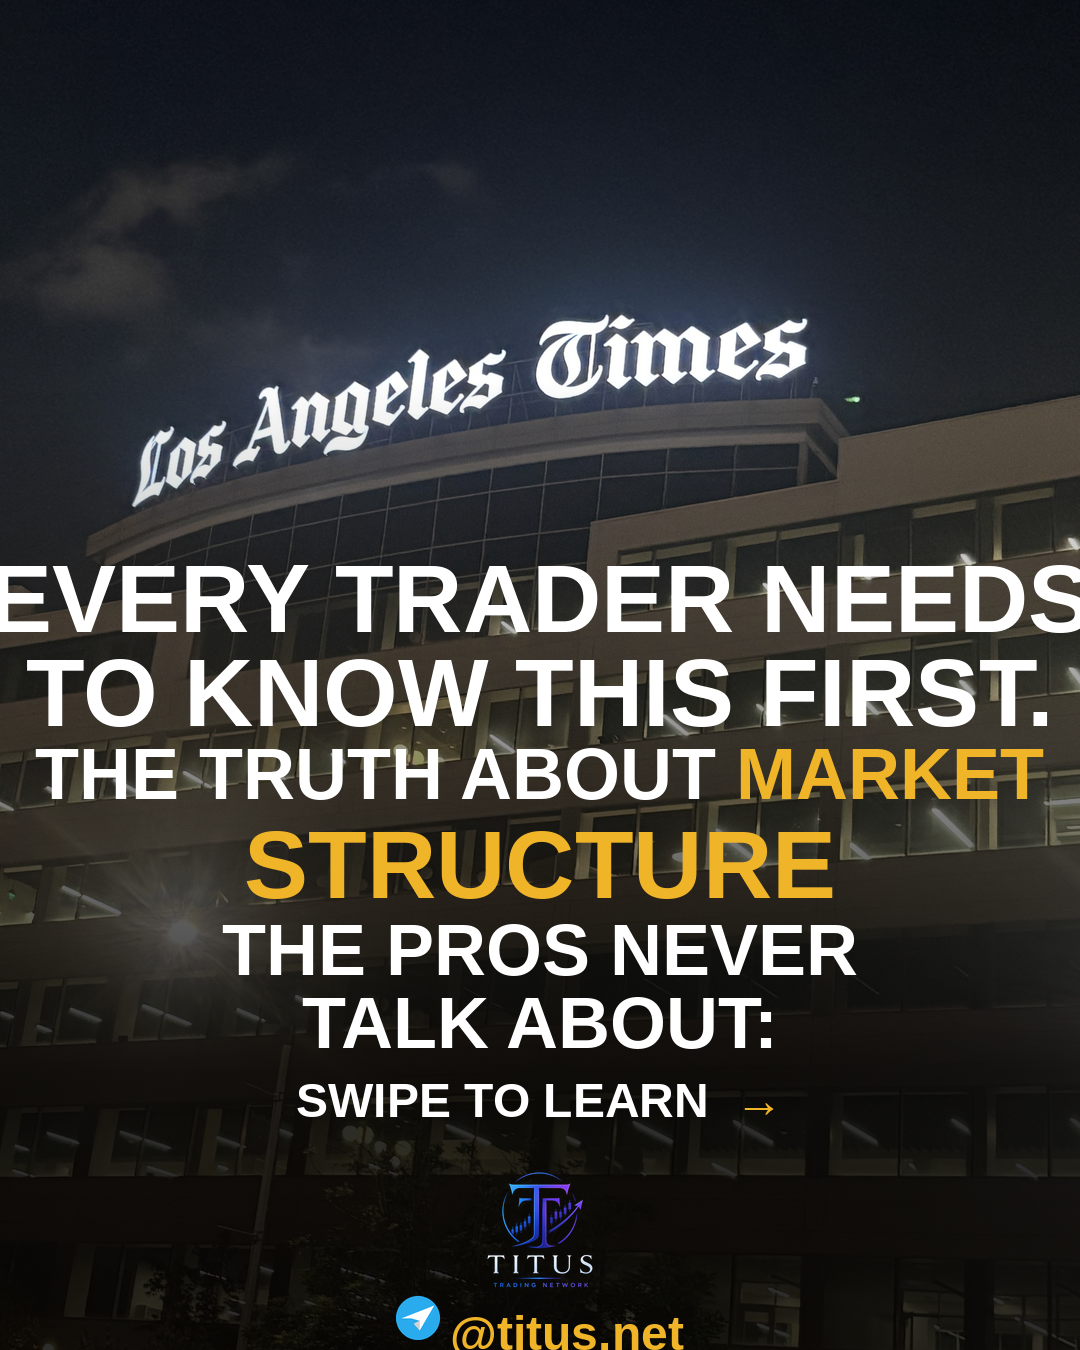
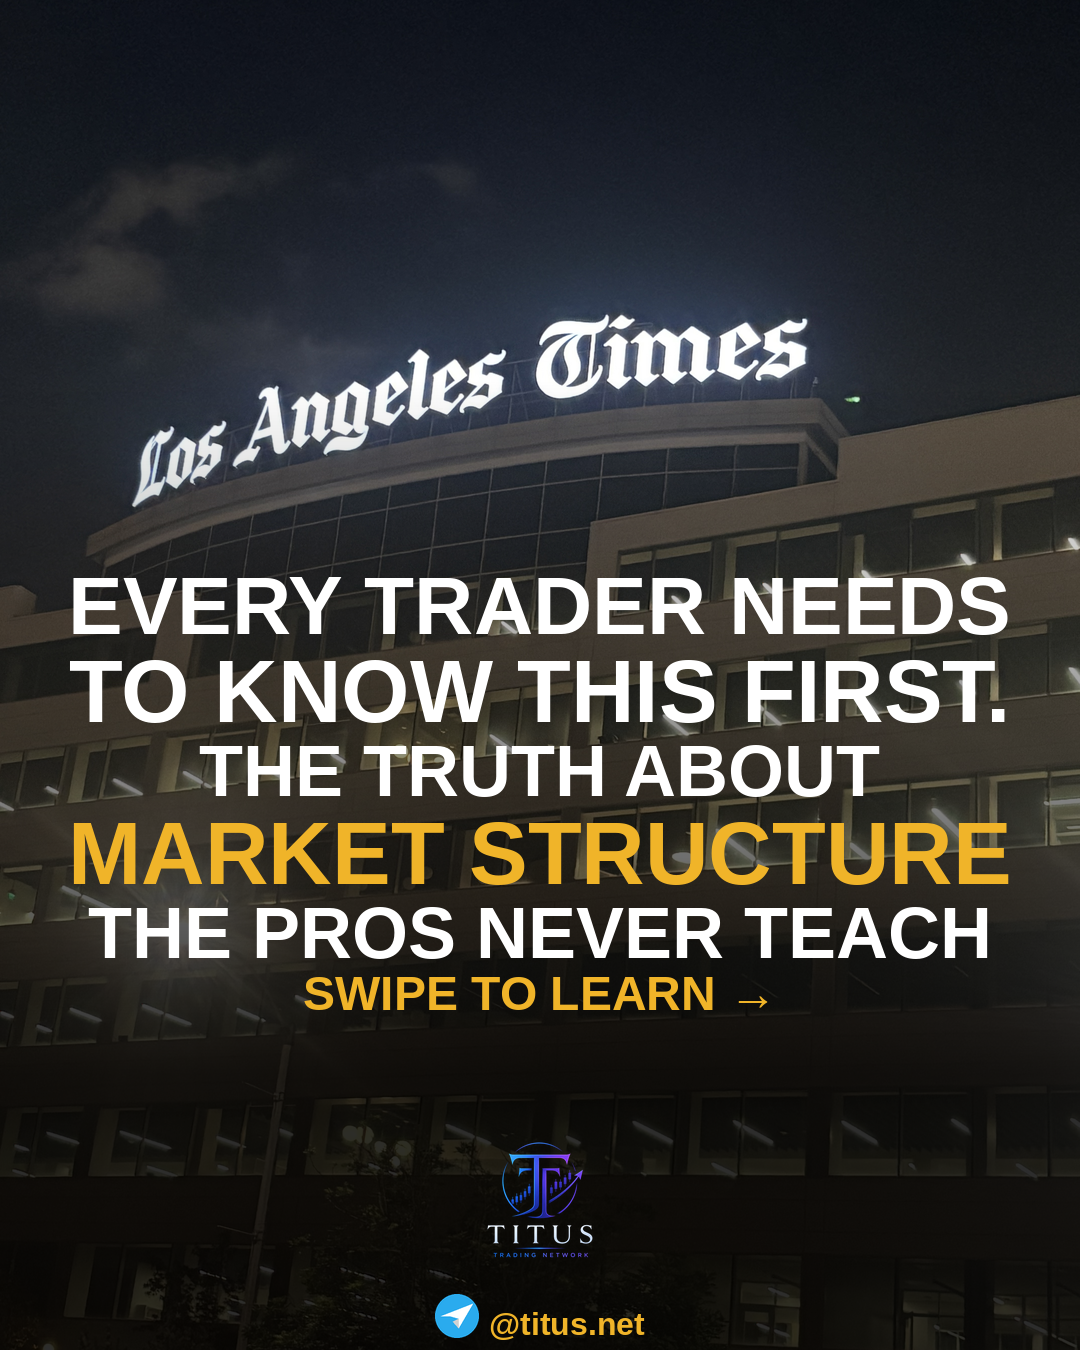
Auto-fit text within Instagram frame bounds on slide 1
https://claude.ai/code/session_01JKQuMZuwvQsYGbk1vyeCpa

Changed region(s): [[0.0, 0.4044, 1.0, 1.0]]

diff --git a/slides/build_slide1.py b/slides/build_slide1.py
@@ -69,82 +69,87 @@ draw  = ImageDraw.Draw(slide)
 # Headline broken into lines manually for max impact
 #
 
+PAD     = 60          # left/right padding
+MAX_W   = W - PAD*2  # 960px usable width
+
 def text_w(draw, text, font):
     return draw.textbbox((0, 0), text, font=font)[2]
 
-def draw_line_mixed(draw, segments, y, font, line_w=W, pad=60):
-    """Draw a line with mixed colours. segments = [(text, colour), ...]"""
-    total = sum(draw.textbbox((0,0), t, font=font)[2] for t, _ in segments)
-    x     = (line_w - total) // 2  # centre
-    for text, colour in segments:
-        draw.text((x, y), text, font=font, fill=colour)
-        x += draw.textbbox((0,0), text, font=font)[2]
-    return y + draw.textbbox((0,0), "A", font=font)[3] + 4
+def fit_font(draw, text, max_size, min_size=36):
+    """Return largest font that fits within MAX_W."""
+    for size in range(max_size, min_size - 1, -2):
+        f = load(BOLD, size)
+        if text_w(draw, text, f) <= MAX_W:
+            return f
+    return load(BOLD, min_size)
 
 def draw_centred(draw, text, font, y, fill=WHITE):
-    tw = text_w(draw, text, font)
-    draw.text(((W - tw) // 2, y), text, font=font, fill=fill)
-    return y + draw.textbbox((0,0), text, font=font)[3] + 6
+    x = (W - text_w(draw, text, font)) // 2
+    draw.text((x, y), text, font=font, fill=fill)
+    lh = draw.textbbox((0,0), "A", font=font)[3]
+    return y + lh + 8
 
-# ── 4. Logo bottom centre ─────────────────────────────────────────────────────
+def draw_mixed(draw, segments, font, y):
+    total = sum(text_w(draw, t, font) for t, _ in segments)
+    x     = (W - total) // 2
+    for text, colour in segments:
+        draw.text((x, y), text, font=font, fill=colour)
+        x += text_w(draw, text, font)
+    lh = draw.textbbox((0,0), "A", font=font)[3]
+    return y + lh + 8
+
+# ── 4. Logo + Telegram bottom ─────────────────────────────────────────────────
 logo = Image.open(LOGO_PATH).convert("RGBA")
 logo.thumbnail((160, 160), Image.LANCZOS)
 lw, lh = logo.size
-lx     = (W - lw) // 2
-ly     = H - lh - 40
-slide.paste(logo, (lx, ly), logo)
+ly     = H - lh - 70
+slide.paste(logo, ((W - lw)//2, ly), logo)
 
-# Calculate available text height: from 42% down to just above logo
-text_top  = int(H * 0.40)
-text_bot  = ly - 20   # stop just above logo
 draw = ImageDraw.Draw(slide)
 
-# Measure total text block height so we can centre it
-line_gap = 8
-lines = [
-    ("BEFORE YOU PLACE", F_LARGE, WHITE),
-    ("ANOTHER TRADE —",  F_LARGE, WHITE),
-    ("MASTER MARKET",    F_LARGE, WHITE),   # gold handled separately
-    ("STRUCTURE.",       F_LARGE, GOLD),
-    ("HERE'S WHAT THE",  F_MED,   WHITE),
-    ("PROS DON'T TEACH:", F_MED,  WHITE),
+# ── 5. Text block: auto-fit fonts, stack from 38% down to just above logo ────
+text_top = int(H * 0.36)
+text_bot = ly - 16
+
+# Define lines with their preferred max font size
+line_defs = [
+    ("EVERY TRADER NEEDS",   F_LARGE, WHITE),
+    ("TO KNOW THIS FIRST.",  F_LARGE, WHITE),
+    ("THE TRUTH ABOUT",      F_MED,   WHITE),
+    ("MARKET STRUCTURE",     F_LARGE, GOLD),
+    ("THE PROS NEVER TEACH", F_MED,   WHITE),
+    ("SWIPE TO LEARN →",     F_SMALL, GOLD),
 ]
 
-def line_h(font):
-    return draw.textbbox((0,0), "A", font=font)[3] + line_gap
+# Auto-fit each line
+fitted = []
+for text, preferred, colour in line_defs:
+    font = fit_font(draw, text, preferred.size if hasattr(preferred, 'size') else 96)
+    fitted.append((text, font, colour))
 
-total_h = (line_h(F_LARGE)*4 + line_h(F_MED)*2 +
-           line_h(F_SMALL))   # swipe cue
-avail   = text_bot - text_top
-y_start = text_top + max(0, (avail - total_h) // 2)
+# Measure total height
+gap       = 10
+total_h   = sum(draw.textbbox((0,0),"A",font=f)[3] + gap for _, f, _ in fitted)
+avail     = text_bot - text_top
+y         = text_top + max(0, (avail - total_h) // 2)
 
-y = y_start
-y = draw_centred(draw, "EVERY TRADER NEEDS",  F_LARGE, y)
-y = draw_centred(draw, "TO KNOW THIS FIRST.",   F_LARGE, y)
-y = draw_line_mixed(draw, [("THE TRUTH ABOUT ", WHITE), ("MARKET", GOLD)], y, F_MED) + line_gap
-y = draw_centred(draw, "STRUCTURE",  F_LARGE, y, fill=GOLD)
-y = draw_centred(draw, "THE PROS NEVER", F_MED, y + 4)
-y = draw_centred(draw, "TALK ABOUT:", F_MED, y)
-y += 18
-y = draw_line_mixed(draw, [("SWIPE TO LEARN  ", WHITE), ("→", GOLD)], y, F_SMALL)
+for text, font, colour in fitted:
+    y = draw_centred(draw, text, font, y, fill=colour)
 
-# Telegram logo + @titus.net under brand logo
+# Telegram logo + @titus.net
 from PIL import Image as _Img
 tg_logo = _Img.open(os.path.join(os.path.dirname(__file__), "telegram_logo.png")).convert("RGBA")
 tg_logo.thumbnail((44, 44), _Img.LANCZOS)
 iw, ih  = tg_logo.size
-
-draw    = ImageDraw.Draw(slide)
 tg_text = "@titus.net"
-txt_w   = text_w(draw, tg_text, F_SMALL)
-gap     = 10
-total   = iw + gap + txt_w
-x_start = (W - total) // 2
-ty      = H - 40
-
-slide.paste(tg_logo, (x_start, ty - ih//2 + 8), tg_logo)
+tg_font = load(BOLD, 32)
+tgw     = text_w(draw, tg_text, tg_font)
+total   = iw + 10 + tgw
+xs      = (W - total) // 2
+ty      = H - 44
+slide.paste(tg_logo, (xs, ty - ih//2 + 10), tg_logo)
 draw = ImageDraw.Draw(slide)
-draw.text((x_start + iw + gap, ty - 4), tg_text, font=F_SMALL, fill=(240, 180, 41))
+draw.text((xs + iw + 10, ty), tg_text, font=tg_font, fill=GOLD)
 
 # ── 5. Save ───────────────────────────────────────────────────────────────────
 out = os.path.join(OUT_DIR, "titus_carousel_1_hook.png")
